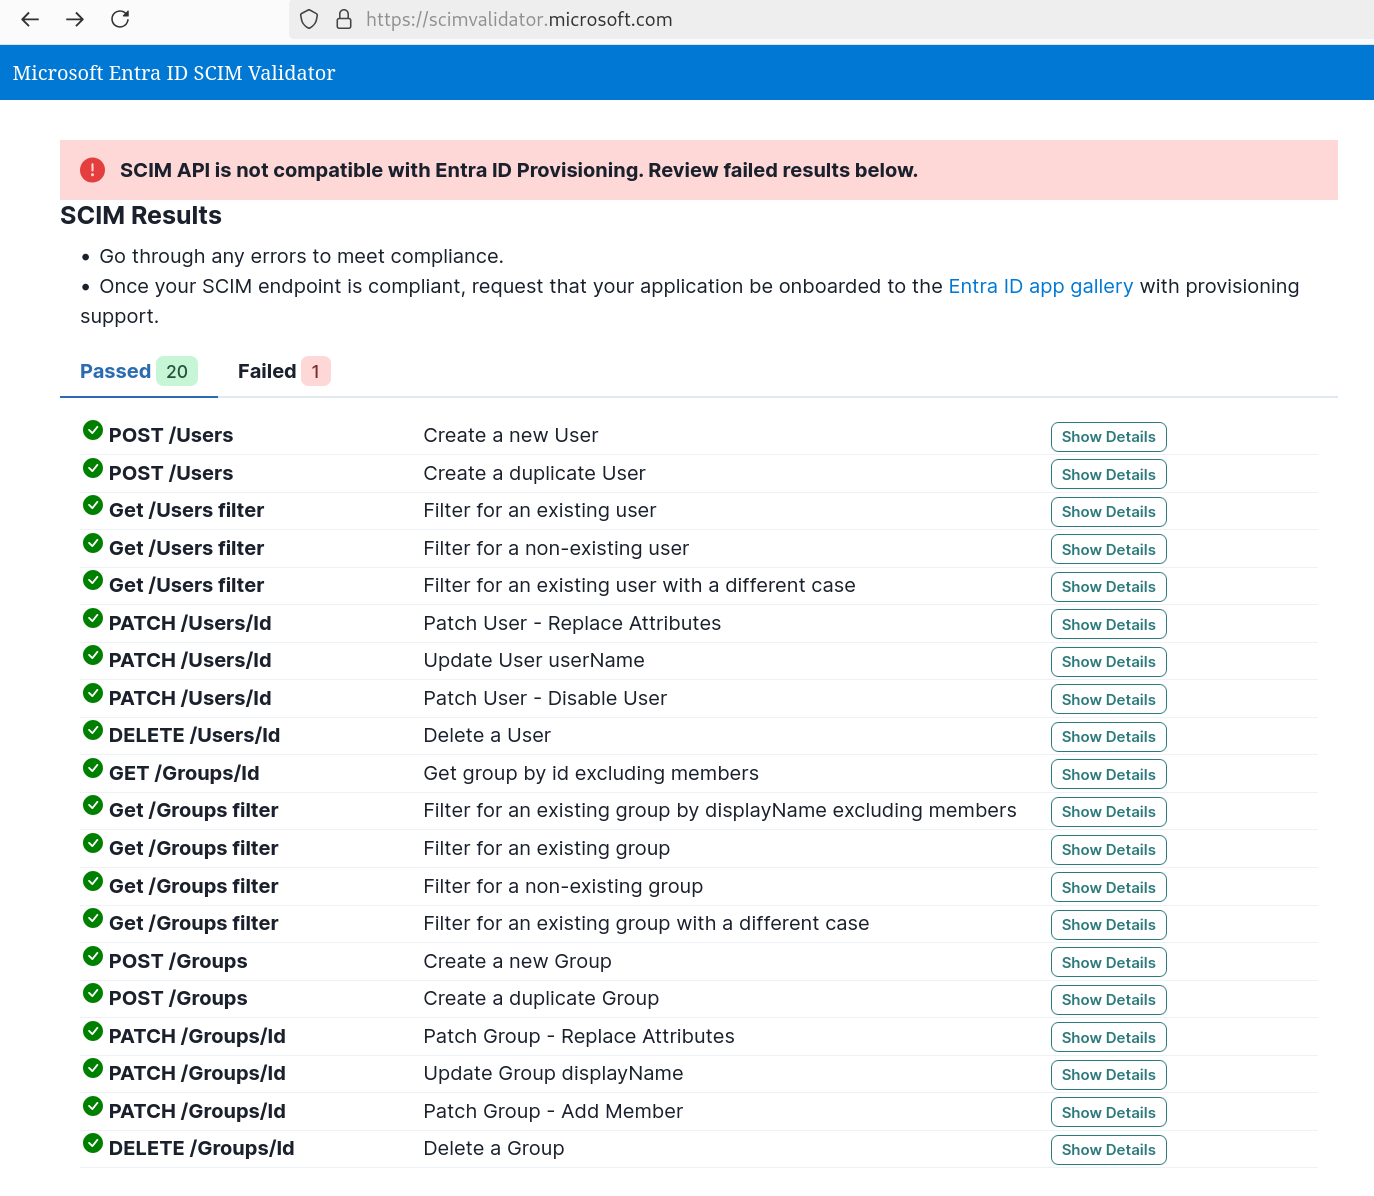
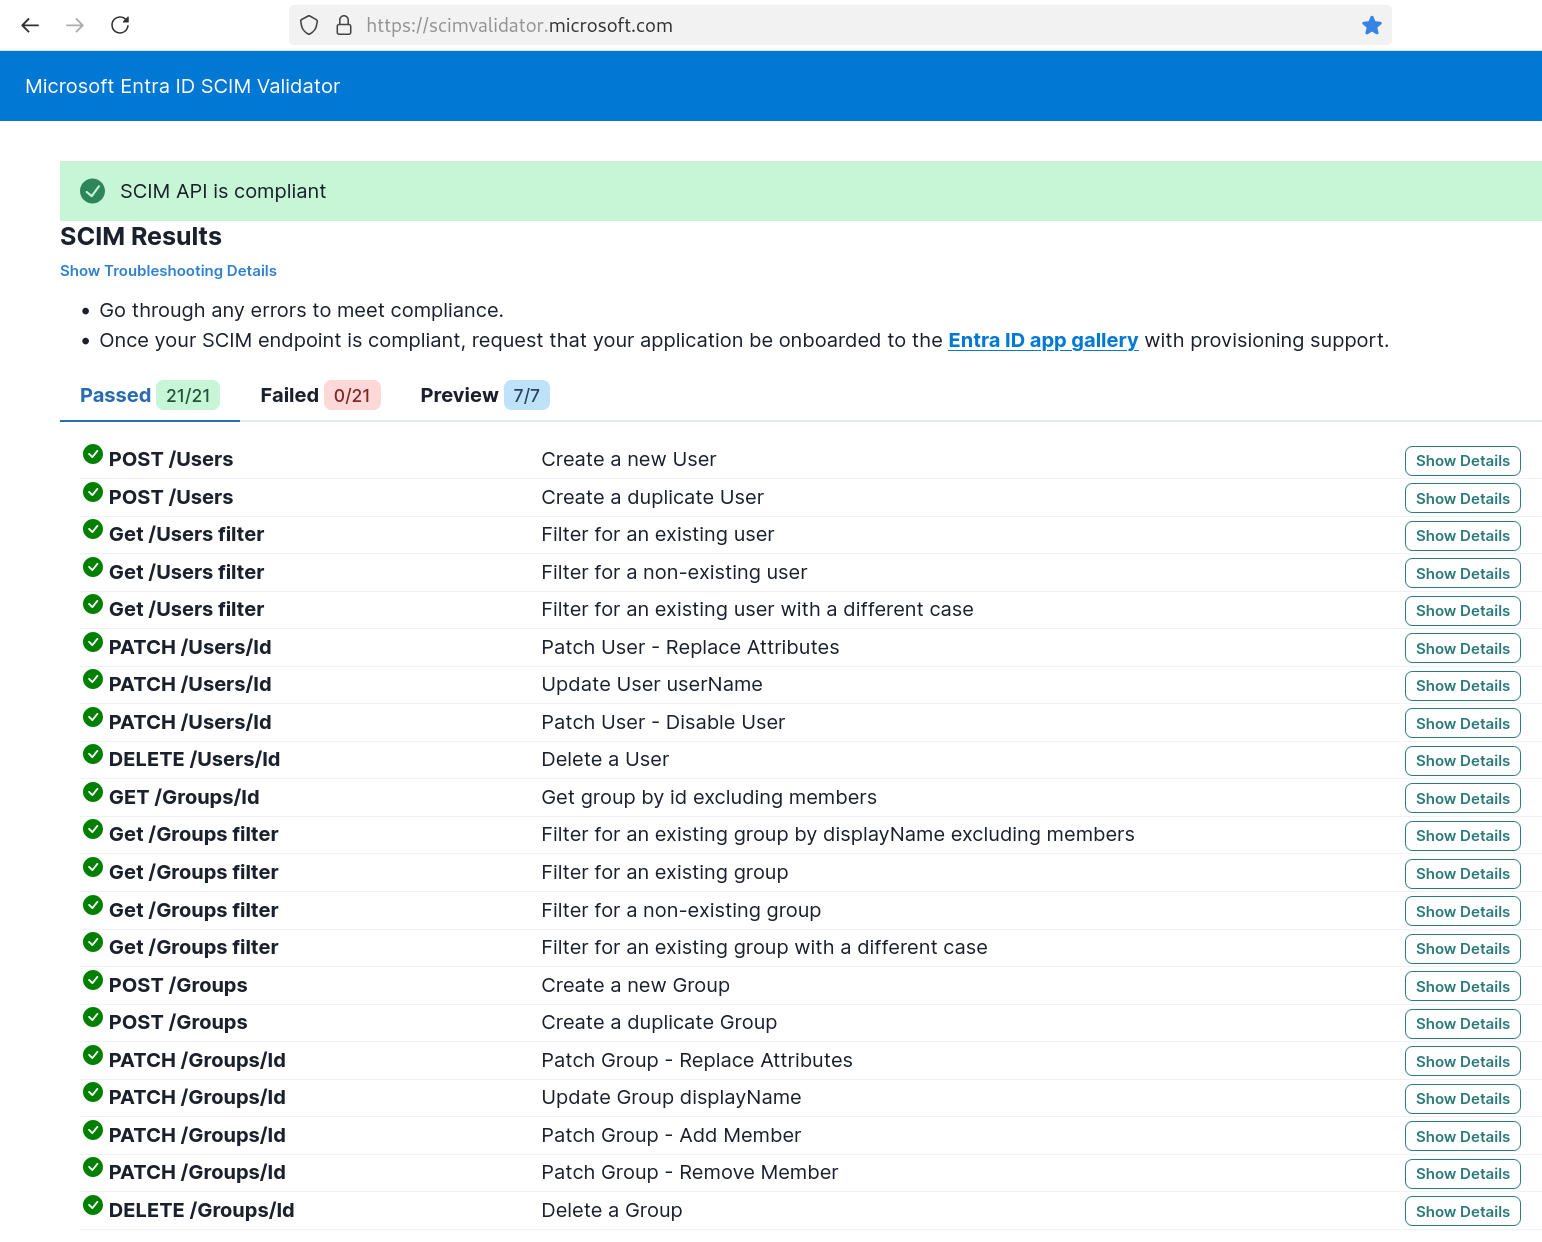
feat: support filtering when patching (#9)
patch now supports filters, and all the tests at
https://scimvalidator.microsoft.com/ now pass :tada:

the in-memory groups implementation still needs replacing with an actual
implementation for it to be useful of course.

Changed region(s): [[0.0, 0.0, 1.0, 0.99], [0.7642, 0.3403, 0.8559, 0.99], [0.917, 0.3403, 0.9782, 0.99]]

diff --git a/src/utils.ts b/src/utils.ts
@@ -198,22 +198,17 @@ export function performPatchOperation(
   // biome-ignore lint/suspicious/noExplicitAny: <explanation>
   obj: any,
   operation: t_PatchOperation,
+  schema: ScimSchema,
 ) {
   const op = operation.op
   const path = operation.path ?? ""
   const value = operation.value
 
-  const filteredPath = /.+\[(.+)]/
+  const filteredPath = /^(\w+)\[(.+)\]$/
   const parts = path.split(".")
 
   const lastPart = parts.pop()
-
-  if (filteredPath.test(lastPart ?? "")) {
-    throw new PatchError(
-      `Complex paths like '${lastPart}' not yet supported`,
-      "invalidPath",
-    )
-  }
+  const match = lastPart ? lastPart.match(filteredPath) : null
 
   if (!lastPart && op === "remove") {
     throw new PatchError(
@@ -226,8 +221,23 @@ export function performPatchOperation(
     if (typeof value === "object" && !Array.isArray(value)) {
       switch (op) {
         case "add":
-        case "replace":
-          return {...obj, ...value}
+        case "replace": {
+          const result = {...obj, ...value}
+
+          // todo: hack: we store email and userName in the same field in the firebase adapter...
+          //             this should also be done in reverse, eg: updating email updates userName
+          if (value.userName) {
+            result.emails = result.emails ?? []
+
+            if (result.emails.length === 0) {
+              result.emails.push({value: value.userName})
+            } else {
+              result.emails[0].value = value.userName
+            }
+          }
+
+          return result
+        }
       }
     }
     if (Array.isArray(obj) && Array.isArray(value)) {
@@ -248,17 +258,22 @@ export function performPatchOperation(
 
   for (const part of parts) {
     if (filteredPath.test(part)) {
-      throw new PatchError(
-        `Complex paths like '${lastPart}' not yet supported`,
-        "invalidPath",
+      if (!Array.isArray(objToOperateOn)) {
+        throw new PatchError(
+          `Filters like ${part} must be applied to arrays`,
+          "invalidPath",
+        )
+      }
+      const filterAst = parseFilter(part)
+      objToOperateOn = objToOperateOn.filter((it) =>
+        evaluateFilter(filterAst, it, schema),
       )
+    } else {
+      if (Reflect.get(obj, part) === undefined) {
+        obj[part] = {}
+      }
+      objToOperateOn = Reflect.get(obj, part)
     }
-
-    if (Reflect.get(obj, part) === undefined) {
-      obj[part] = {}
-    }
-
-    objToOperateOn = Reflect.get(obj, part)
   }
 
   const type = getType(objToOperateOn[lastPart], value)
@@ -289,23 +304,38 @@ export function performPatchOperation(
         objToOperateOn[lastPart] = value
       }
       break
-    case "remove":
-      /*
-      TODO: support filtered remove...
-        If the target location is a multi-valued attribute and a complex
-        filter is specified comparing a "value", the values matched by the
-        filter are removed.  If no other values remain after removal of
-        the selected values, the multi-valued attribute SHALL be
-        considered unassigned.
-        If the target location is a complex multi-valued attribute and a
-        complex filter is specified based on the attribute's
-        sub-attributes, the matching records are removed.  Sub-attributes
-        whose values have been removed SHALL be considered unassigned.  If
-        the complex multi-valued attribute has no remaining records, the
-        attribute SHALL be considered unassigned.
-       */
-      objToOperateOn[lastPart] = undefined
+    case "remove": {
+      if (match) {
+        const [_, attrName, rawFilter] = match
+
+        if (!attrName || !rawFilter) {
+          throw new PatchError(
+            `invalid filter expression '${lastPart}'`,
+            "invalidSyntax",
+          )
+        }
+
+        const array = objToOperateOn[attrName]
+
+        if (!Array.isArray(array)) {
+          throw new PatchError(
+            `Target '${attrName}' is not a multi-valued attribute`,
+            "invalidPath",
+          )
+        }
+
+        const filterAst = parseFilter(rawFilter)
+        const filtered = array.filter(
+          (it) => !evaluateFilter(filterAst, it, schema),
+        )
+
+        objToOperateOn[attrName] = filtered.length === 0 ? undefined : filtered
+      } else {
+        objToOperateOn[lastPart] = undefined
+      }
+
       break
+    }
   }
 
   return obj

diff --git a/src/utils.spec.ts b/src/utils.spec.ts
@@ -1,6 +1,11 @@
 import {describe, expect, it} from "@jest/globals"
-import {ScimSchemaCoreUser} from "./scim-schemas"
-import {evaluateFilter, getType, parseFilter} from "./utils"
+import {ScimSchemaCoreGroup, ScimSchemaCoreUser} from "./scim-schemas"
+import {
+  evaluateFilter,
+  getType,
+  parseFilter,
+  performPatchOperation,
+} from "./utils"
 
 describe("utils", () => {
   describe("#getType", () => {
@@ -544,6 +549,78 @@ describe("utils", () => {
           ],
         }),
       ).toBe(true)
+    })
+  })
+
+  describe("#performPatchOperation", () => {
+    it("can replace username", () => {
+      const user = {
+        userName: "stuart@vandervortstoltenberg.uk",
+      }
+
+      const updated = performPatchOperation(
+        user,
+        {
+          op: "replace",
+          value: {
+            userName: "macie@kautzerlarson.ca",
+          },
+        },
+        ScimSchemaCoreUser,
+      )
+
+      expect(updated).toStrictEqual({
+        userName: "macie@kautzerlarson.ca",
+        emails: [{value: "macie@kautzerlarson.ca"}],
+      })
+    })
+
+    it("can remove group member", () => {
+      const group = {
+        displayName: "YVNANSPSMIIG",
+        id: "90ee9f2e-96f2-4c3a-b19d-072f1c396a90",
+        members: [
+          {
+            value: "r8XPy2P6IfNlTVuydylxkjkKTHy1",
+            $ref: "https://panda:2000/scim/v2/Users/r8XPy2P6IfNlTVuydylxkjkKTHy1",
+            type: "User",
+          },
+          {
+            value: "UffgWICSUrWRIlQZDKtyV9T3vZC2",
+            $ref: "https://panda:2000/scim/v2/Users/UffgWICSUrWRIlQZDKtyV9T3vZC2",
+            type: "User",
+          },
+        ],
+        meta: {
+          resourceType: "ServiceProviderConfig",
+        },
+        schemas: ["urn:ietf:params:scim:schemas:core:2.0:Group"],
+      }
+
+      const updated = performPatchOperation(
+        group,
+        {
+          op: "remove",
+          path: 'members[value eq "r8XPy2P6IfNlTVuydylxkjkKTHy1"]',
+        },
+        ScimSchemaCoreGroup,
+      )
+
+      expect(updated).toStrictEqual({
+        displayName: "YVNANSPSMIIG",
+        id: "90ee9f2e-96f2-4c3a-b19d-072f1c396a90",
+        members: [
+          {
+            value: "UffgWICSUrWRIlQZDKtyV9T3vZC2",
+            $ref: "https://panda:2000/scim/v2/Users/UffgWICSUrWRIlQZDKtyV9T3vZC2",
+            type: "User",
+          },
+        ],
+        meta: {
+          resourceType: "ServiceProviderConfig",
+        },
+        schemas: ["urn:ietf:params:scim:schemas:core:2.0:Group"],
+      })
     })
   })
 })

diff --git a/src/routes/users.ts b/src/routes/users.ts
@@ -49,7 +49,7 @@ const requestBodyToCreateUser = (
 
 @Service()
 export class UsersHandlers implements Implementation {
-  constructor(private readonly firebase: IdpAdapter) {}
+  constructor(private readonly idpAdapter: IdpAdapter) {}
 
   getScimV2Users: GetScimV2Users = async ({query}, respond) => {
     const take = query.count
@@ -58,7 +58,7 @@ export class UsersHandlers implements Implementation {
         ? (query.startIndex - 1) * query.count
         : 0
 
-    let users = await this.firebase.listUsers({
+    let users = await this.idpAdapter.listUsers({
       take,
       skip,
     })
@@ -80,18 +80,18 @@ export class UsersHandlers implements Implementation {
   }
 
   getScimV2UsersId: GetScimV2UsersId = async ({params, query}, respond) => {
-    const user = await this.firebase.getUser(params.id)
+    const user = await this.idpAdapter.getUser(params.id)
 
     return respond.with200().body(user)
   }
 
   postScimV2Users: PostScimV2Users = async ({body}, respond) => {
-    const user = await this.firebase.createUser(requestBodyToCreateUser(body))
+    const user = await this.idpAdapter.createUser(requestBodyToCreateUser(body))
     return respond.with201().body(user)
   }
 
   putScimV2UsersId: PutScimV2UsersId = async ({params, body}, respond) => {
-    const user = await this.firebase.updateUser(
+    const user = await this.idpAdapter.updateUser(
       params.id,
       requestBodyToCreateUser(body),
     )
@@ -99,21 +99,21 @@ export class UsersHandlers implements Implementation {
   }
 
   patchScimV2UsersId: PatchScimV2UsersId = async ({params, body}, respond) => {
-    const user = await this.firebase.getUser(params.id)
+    const user = await this.idpAdapter.getUser(params.id)
     const operations = body.Operations ?? []
 
     let updated = {...user}
     for (const operation of operations) {
-      updated = performPatchOperation(updated, operation)
+      updated = performPatchOperation(updated, operation, ScimSchemaCoreUser)
     }
 
-    await this.firebase.updateUser(user.id, requestBodyToCreateUser(updated))
+    await this.idpAdapter.updateUser(user.id, requestBodyToCreateUser(updated))
 
     return respond.with200().body(user)
   }
 
   deleteScimV2UsersId: DeleteScimV2UsersId = async ({params}, respond) => {
-    await this.firebase.deleteUser(params.id)
+    await this.idpAdapter.deleteUser(params.id)
 
     return respond.with204().body()
   }

diff --git a/src/routes/groups.ts b/src/routes/groups.ts
@@ -45,7 +45,7 @@ export class GroupsHandlers implements Implementation {
 
     let updated = {...group}
     for (const operation of operations) {
-      updated = performPatchOperation(updated, operation)
+      updated = performPatchOperation(updated, operation, ScimSchemaCoreGroup)
     }
 
     await this.idpAdapter.replaceGroup(group.id, updated)

diff --git a/README.md b/README.md
@@ -19,12 +19,12 @@ Its definitely still inaccurate, and help solidifying it would be appreciated.
 
 ## What works
 
-Not much, but starting to improve. You can create / delete users E2E, and update them.
-
+Basic functionality should work. You can create / delete users E2E, and update them, filter, etc. 
 An in-memory groups implementation partially works.
 
+It currently passes all the tests at https://scimvalidator.microsoft.com/
+
 ![Passing Tests](./docs/scim-validator-passing.png)
-![Failing Tests](docs/scim-validator-failing.png)
 
 ## Running
 
